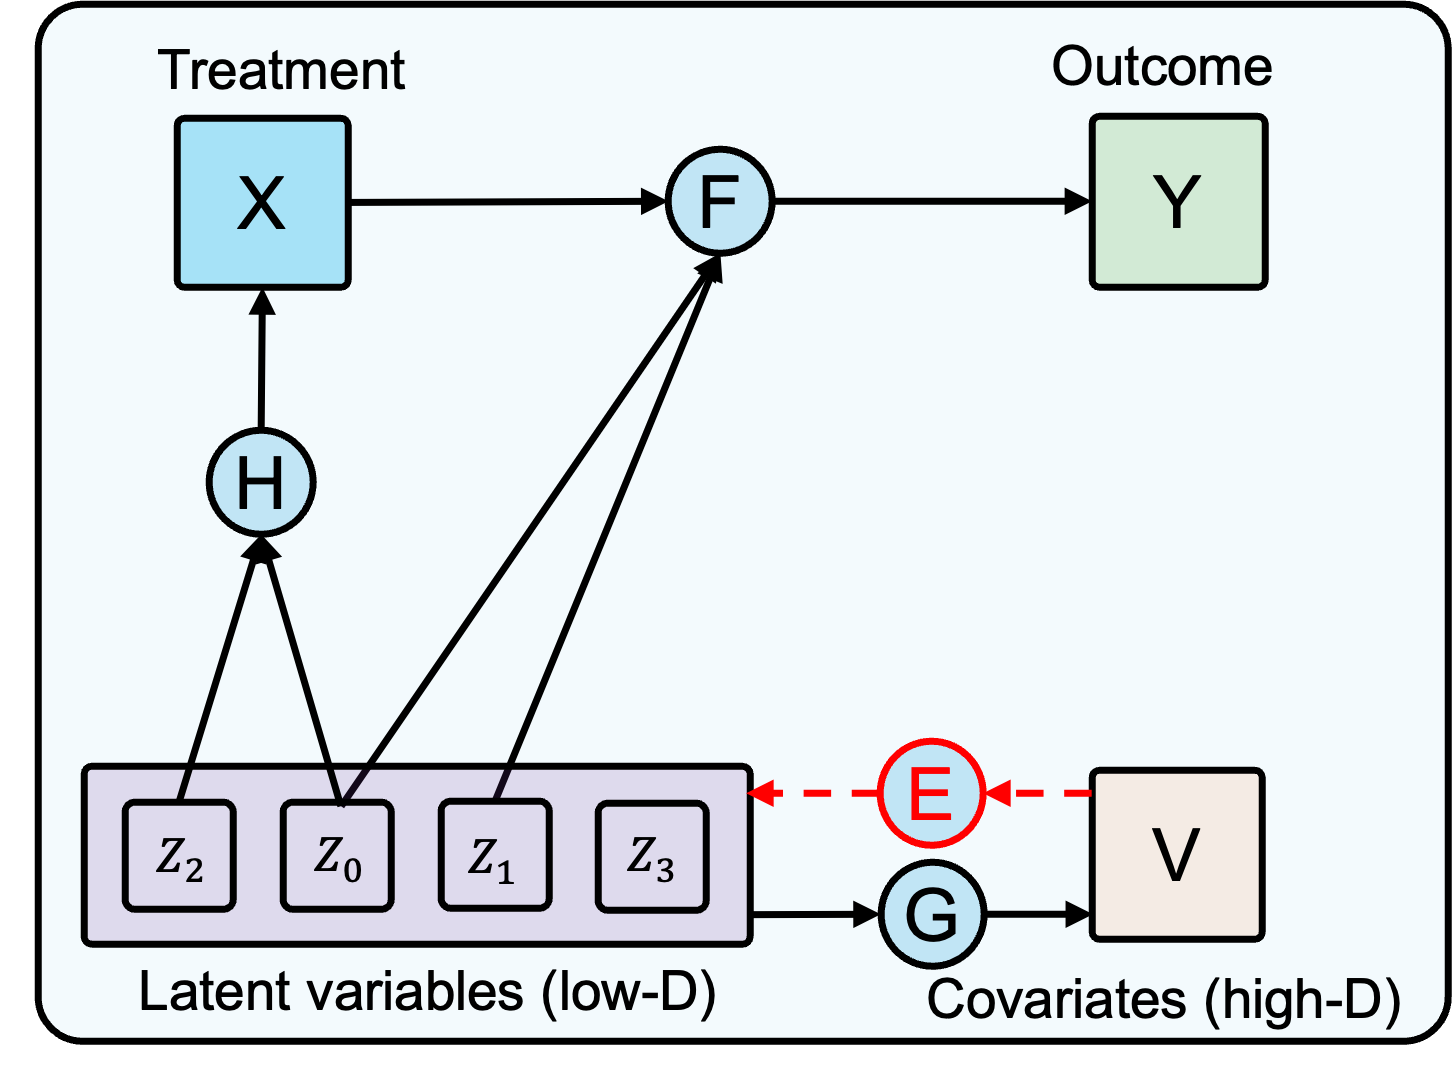
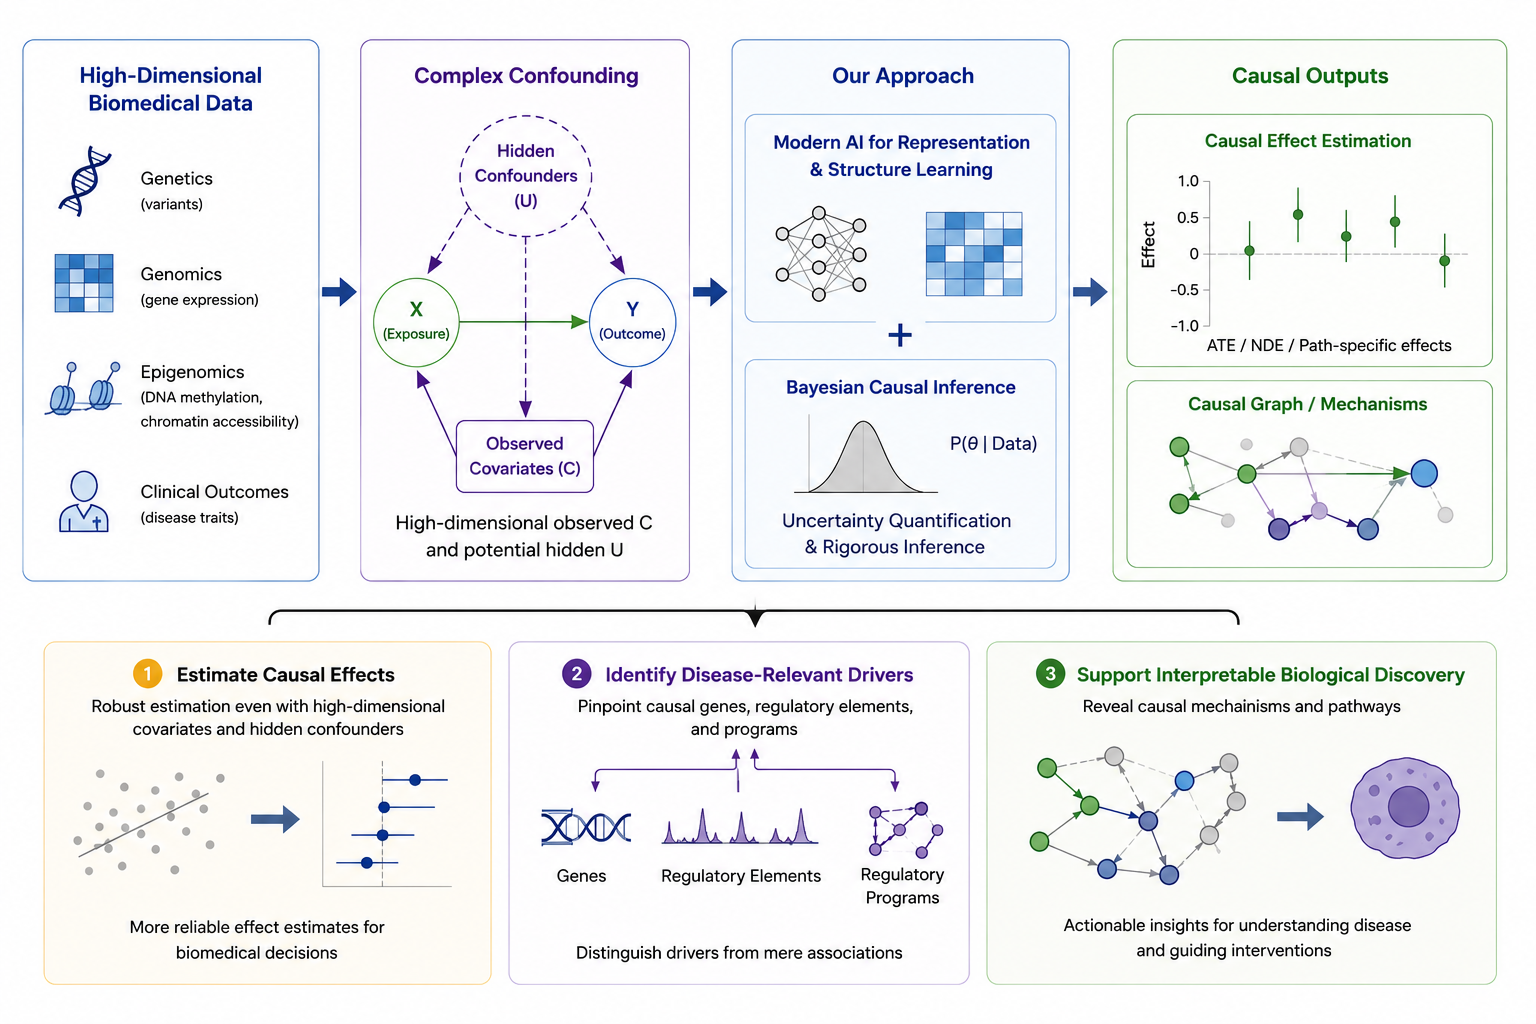
update

diff --git a/content/research/multiomics-integration/index.md b/content/research/multiomics-integration/index.md
@@ -11,7 +11,7 @@ sections:
       image:
         filename: mutiomics-integration.png
       text: |
-        We develop statistical and AI-driven methods to integrate diverse molecular data modalities, including single-cell/bulk-level genetics, transcriptomics, epigenomics, spatial omics signals. Our goal is to build scalable and interpretable computational frameworks that can jointly model heterogeneous multiomics data, recover missing modalities, quantify uncertainty, and reveal regulatory programs across molecular layers.
+        We develop statistical and AI-driven methods to integrate diverse molecular data modalities, including genetics, transcriptomics, epigenomics, radiomics at different scale and resolution. Our goal is to build scalable and interpretable computational frameworks that can jointly model heterogeneous multiomics data, recover missing modalities, quantify uncertainty, and reveal regulatory programs across molecular layers.
 
   - block: portfolio
     id: projects